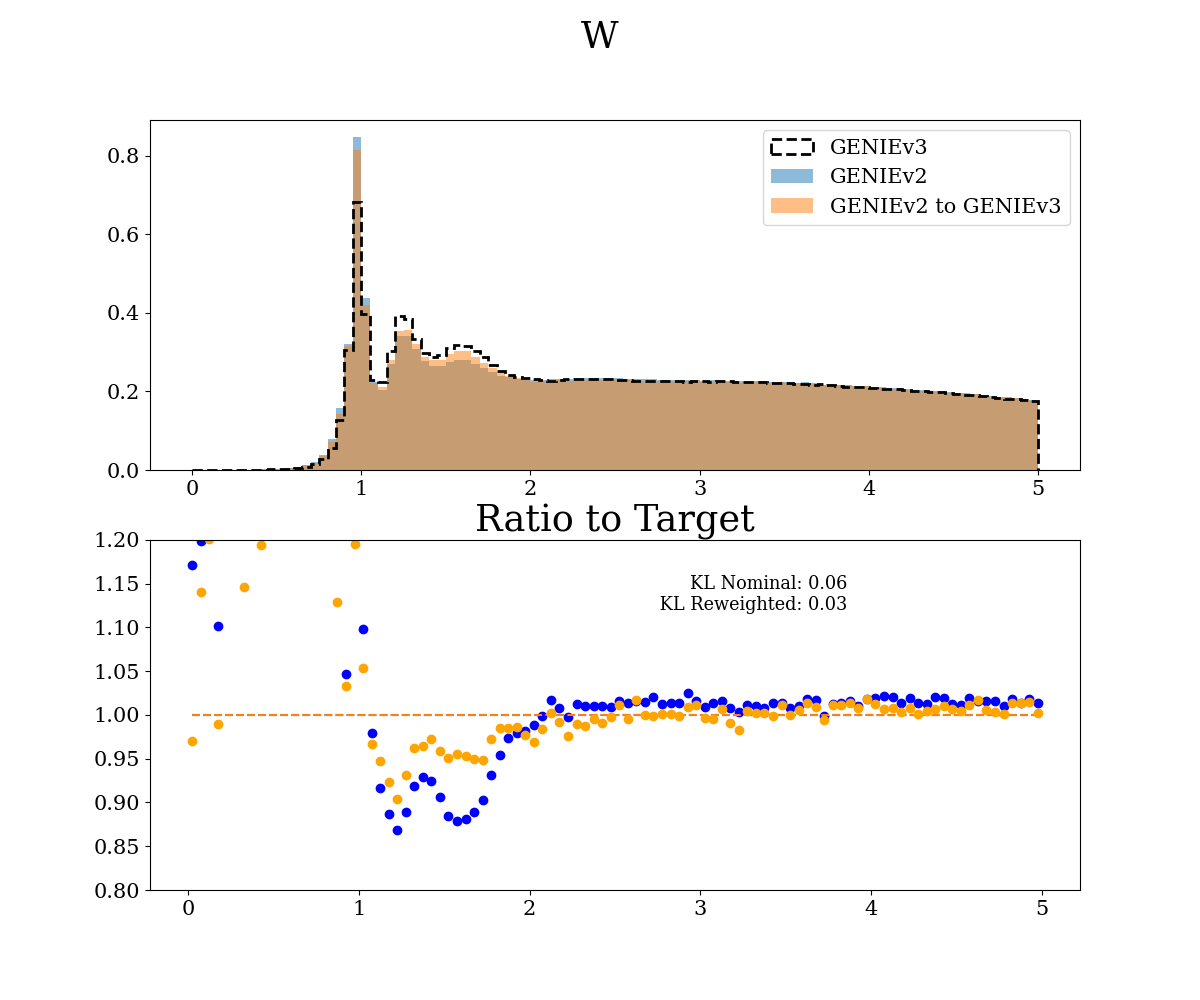
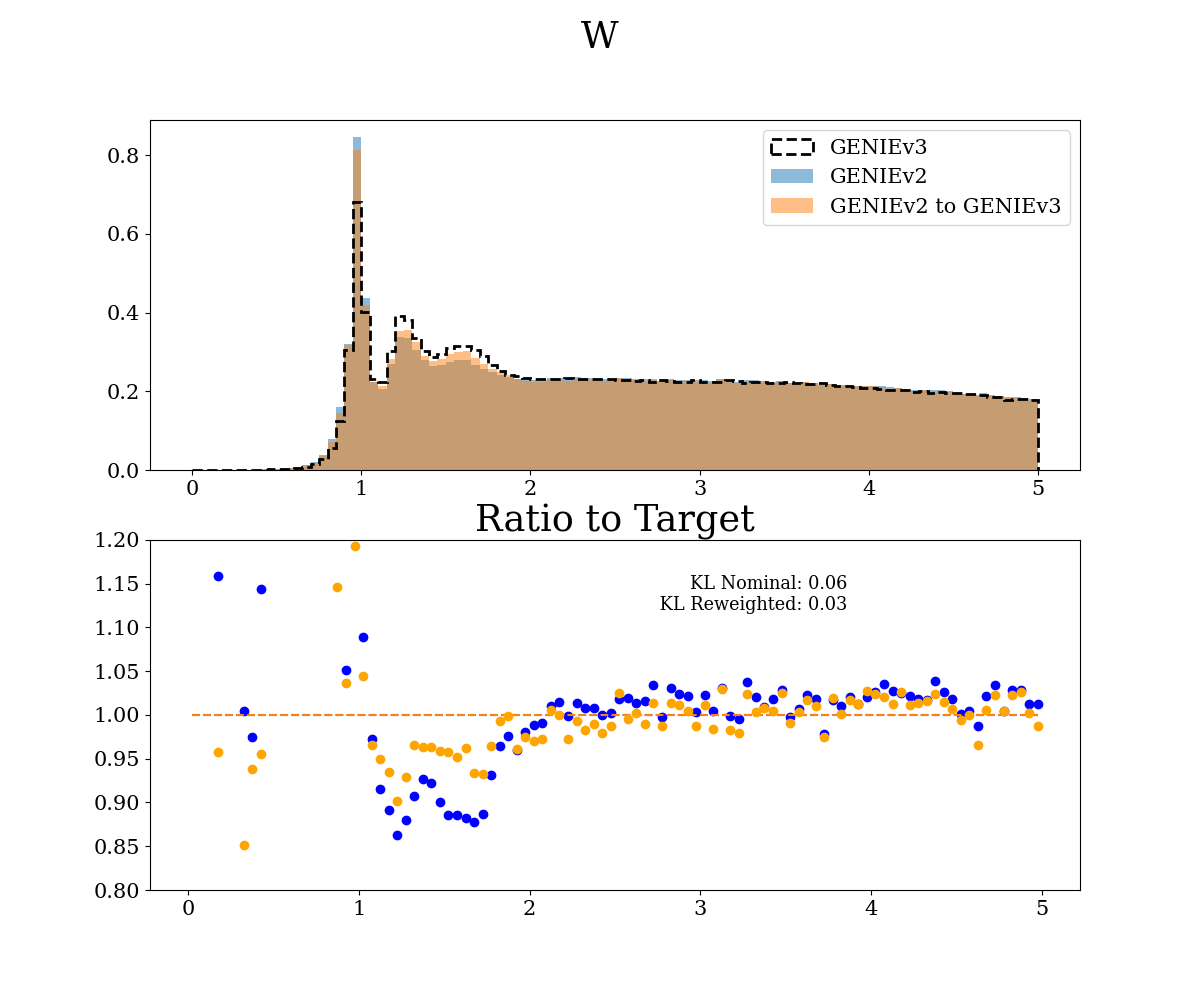
Bugfixes :bug:

diff --git a/src/utils/funcs.py b/src/utils/funcs.py
@@ -1,7 +1,8 @@
 import awkward as ak
 import numpy as np
-import torch
 import uproot
+import os
+import torch
 
 def make_cut(pdg):
     """
@@ -14,12 +15,69 @@ def make_cut(pdg):
     cut = proton_muon & multiplicity_cut & pions
     return cut
 
+def get_constants():
+        variables_in = [
+            "cc",
+            "PDGnu",
+            "Enu_true",
+            "ELep",
+            "CosLep",
+            "Q2",
+            "W",
+            "x",
+            "y",
+            "nfsp",
+            "pdg",
+            "E",
+            "px",
+            "py",
+            "pz",
+            "Weight",
+        ]
+
+        variables_out = [
+            "isNu",
+            "isNue",
+            "isNumu",
+            "isNutau",
+            "cc",
+            "Enu_true",
+            "ELep",
+            "CosLep",
+            "Q2",
+            "W",
+            "x",
+            "y",
+            "nP",
+            "nN",
+            "nipip",
+            "nipim",
+            "nipi0",
+            "niem",
+            "eP",
+            "eN",
+            "ePip",
+            "ePim",
+            "ePi0",
+        ]
+        m = {
+            "P": 0.93827,
+            "N": 0.93957,
+            "piC": 0.13957,
+            "pi0": 0.13498,
+            "kC": 0.49368,
+            "k0": 0.49764,
+        }
+        
+        return variables_in, variables_out, m
+
+
 
 def rootfile_to_array(filename, return_weights=False, apply_cut=False):
         variables_in, variables_out, m = get_constants()
 
         with uproot.open(filename + ":FlatTree_VARS") as tree:
-            print("Reading {0}".format(filename))
+            print("Reading {0}".format(os.path.basename(filename)))
             treeArr = tree.arrays(variables_in)
 
             if apply_cut:
@@ -132,66 +190,7 @@ def get_vars_meta(manyBins):
     ).transpose()
     return vars_meta
 
-def get_constants():
-        variables_in = [
-            "cc",
-            "PDGnu",
-            "Enu_true",
-            "ELep",
-            "CosLep",
-            "Q2",
-            "W",
-            "x",
-            "y",
-            "nfsp",
-            "pdg",
-            "E",
-            "px",
-            "py",
-            "pz",
-            "Weight",
-        ]
 
-        variables_out = [
-            "isNu",
-            "isNue",
-            "isNumu",
-            "isNutau",
-            "cc",
-            "Enu_true",
-            "ELep",
-            "CosLep",
-            "Q2",
-            "W",
-            "x",
-            "y",
-            "nP",
-            "nN",
-            "nipip",
-            "nipim",
-            "nipi0",
-            "niem",
-            "eP",
-            "eN",
-            "ePip",
-            "ePim",
-            "ePi0",
-            "pP",
-            "pN",
-            "pPip",
-            "pPim",
-            "pPi0"
-        ]
-        m = {
-            "P": 0.93827,
-            "N": 0.93957,
-            "piC": 0.13957,
-            "pi0": 0.13498,
-            "kC": 0.49368,
-            "k0": 0.49764,
-        }
-
-        return variables_in, variables_out, m
 
 def sigmoid(x):
     return 1 / (1 + np.exp(-x))

diff --git a/reweight.py b/reweight.py
@@ -89,18 +89,20 @@ def predict_weights(filename):
             weights = calculate_weights(y_hat)
             weights_list.append(weights)
             probas_list.append(y_hat)
-            nominal_list.apppend(nominal)
+        
+        # Save the nominal file
+        nominal_list.append(nominal)
         
         # After iterating through create weight files
         weights = np.hstack(weights_list)
         probas = np.vstack(probas_list)
-        nominal = np.vstack(nominal)
-        print(probas.shape, weights.shape)
+        nominal = np.vstack(nominal_list)
     return weights, probas, nominal
 
+# Get weights for nominal array
 weights, probas_nominal, nominal = predict_weights(v2_filename)
-_, probas_target = predict_weights(v3_filename)
 
+# Get target array
 target = np.vstack([rootfile_to_array(filename) for filename in glob.glob(v3_filename)])
 
 plt.hist(weights, bins=100)

diff --git a/trained_bdt/genie_v3_10b.py b/trained_bdt/genie_v3_10b.py
@@ -1,10 +1,13 @@
 import cppyy
 import numpy as np
-cppyy.include('/data/rradev/generator_translation/trained_bdt/GeneratorReweight_GENIEv3_G18_10b_00_000.h')
+import os
 
 
 class GENIEv3_10b_BDT:
     def __init__(self):
+        filename = 'GeneratorReweight_GENIEv3_G18_10b_00_000.h'
+        parent_dir = 'trained_bdt/'
+        cppyy.include(os.path.join(parent_dir, filename))
         self.reweighter = cppyy.gbl.GeneratorReweight_GENIEv3_G18_10b_00_000()
     def predict(self, array):
         return np.array([self.reweighter.predict(row, 1) for row in array])
